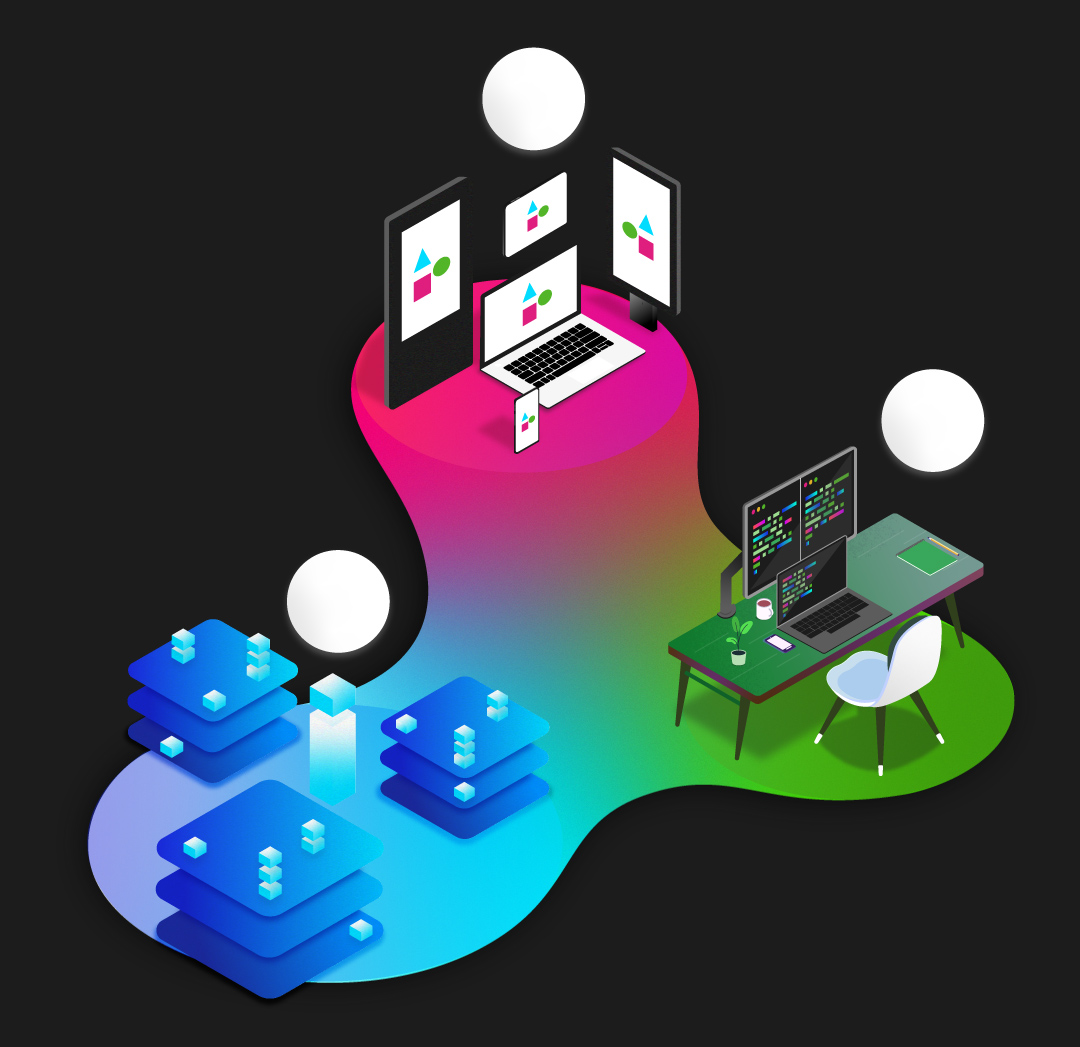
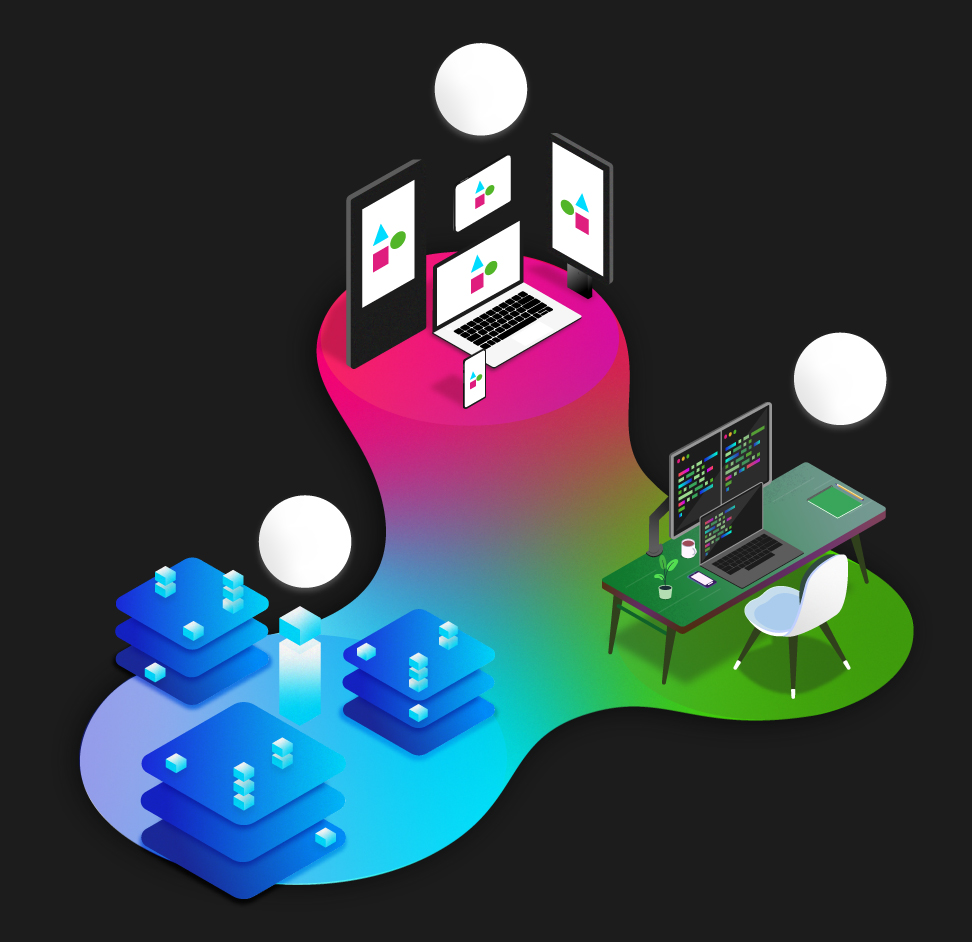
changes

diff --git a/src/assets/sass/components/stack.scss b/src/assets/sass/components/stack.scss
@@ -1,5 +1,6 @@
 .stack-animation__content{
   position: relative;
+  max-width: 900px;
 }
 
 .stack-animation__box{
